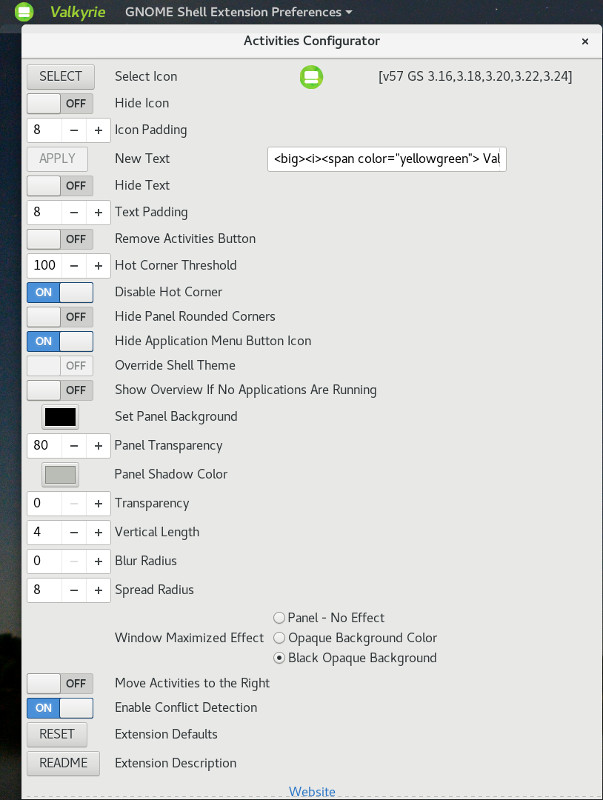
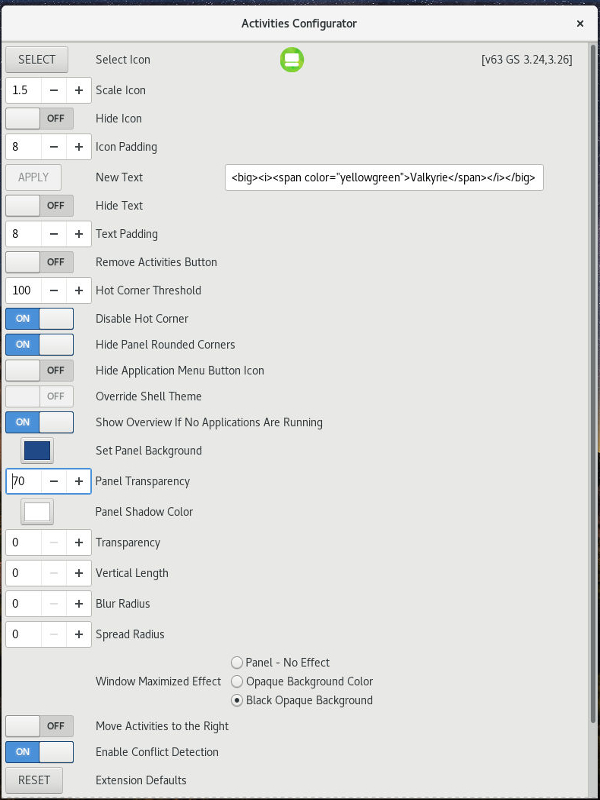
Updated for Activities Configurator V63

diff --git a/features.html b/features.html
@@ -30,7 +30,8 @@ footer { font-family: Verdana, sans-serif; margin:5px; font-size:0.7em; backgrou
        <ul>
         <li>The Gnome Shell Extension Preferences tool can be executed by a secondary mouse click on the Activities Text or Icon.</li>
         <li>An icon can be selected to precede the text.</li>
-        <li>The icon can be hidden.</li>               
+        <li>The icon size can be scaled.</li> 
+        <li>The icon can be hidden.</li>
         <li>The icon padding is adjustable.</li> 
         <li>The Activities Text can be replaced by text chosen by the user. <b>Pango</b> formatting can be applied to the text.
             See <a href="https://developer.gnome.org/pango/stable/PangoMarkupFormat.html">Pango Markup Format</a>.       

diff --git a/activities_config_zip.html b/activities_config_zip.html
@@ -27,6 +27,14 @@
 <td><h3>Gnome Shell Version(s)</h3></td>
 </tr>
 <tr>
+<td><a href="https://extensions.gnome.org/review/download/7961.shell-extension.zip">v63</a></td><td>&nbsp&nbsp&nbsp</td>
+<td><strong>3.24 3.26</strong></td>
+</tr>
+<tr>
+<td><a href="https://extensions.gnome.org/review/download/7960.shell-extension.zip">v62</a></td><td>&nbsp&nbsp&nbsp</td>
+<td><strong>3.24 3.26</strong></td>
+</tr>
+<tr>
 <td><a href="https://extensions.gnome.org/review/download/7682.shell-extension.zip">v61</a></td><td>&nbsp&nbsp&nbsp</td>
 <td><strong>3.24 3.26</strong></td>
 </tr>
